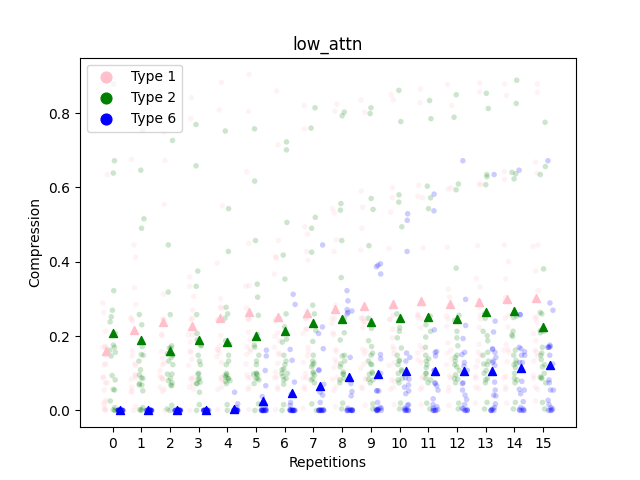
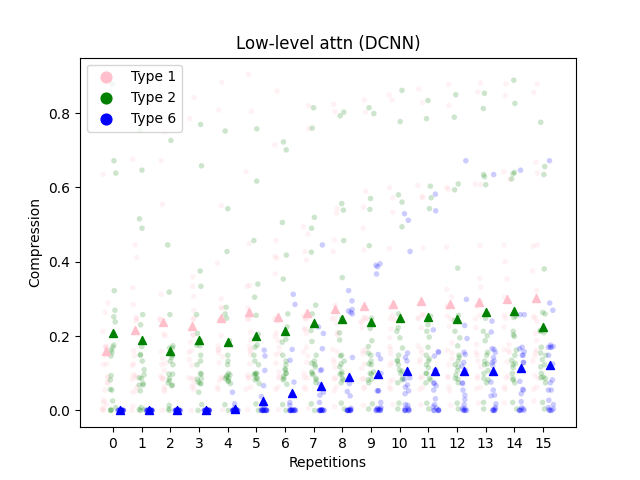
improve plotter and reconfirm results

diff --git a/compression.py b/compression.py
@@ -56,7 +56,7 @@ def per_subj_compression(repr_level, sub, problem_type, run, config_version):
         # convert per run rp to global repetition 
         repetition = (run-1) * num_repetitions_per_run + rp - 1
         
-        if repr_level == 'LOC':
+        if repr_level == 'low_attn':
             config = load_config(component=None, config_version=config_version)
             attn_position = config['attn_positions'].split(',')[0]
             attn_weights = np.load(
@@ -66,7 +66,7 @@ def per_subj_compression(repr_level, sub, problem_type, run, config_version):
             # score = attn_compression(attn_weights)
             score = attn_sparsity(attn_weights)
         
-        elif repr_level == 'cluster':
+        elif repr_level == 'high_attn':
             attn_weights = np.load(
                 f'{results_path}/' \
                 f'all_alphas_type{problem_type}_sub{sub}_cluster_rp{repetition}.npy')[-3:]
@@ -217,7 +217,11 @@ def compression_execute(config_version, repr_level, subs, runs, tasks, num_proce
     plt.legend()
     ax.set_xlabel('Learning Blocks')
     ax.set_ylabel(f'Compression')
-    plt.title(f'{repr_level}')
+    if repr_level == 'low_attn':
+        title = 'Low-level attn (DCNN)'
+    elif repr_level == 'high_attn':
+        title = 'High-level attn (Clustering)'
+    plt.title(f'{title}')
     plt.savefig(f'compression_results/{repr_level}.png')
 
 
@@ -232,7 +236,7 @@ def per_subj_compression_repetition_level(
     """
     config_version = f'{config_version}_sub{sub}_fit-human'
     results_path = f'results/{config_version}'
-    if repr_level == 'LOC':
+    if repr_level == 'low_attn':
         config = load_config(component=None, config_version=config_version)
         attn_position = config['attn_positions'].split(',')[0]
         attn_weights = np.load(
@@ -242,7 +246,7 @@ def per_subj_compression_repetition_level(
         # score = attn_compression(attn_weights)
         score = attn_sparsity(attn_weights)
     
-    elif repr_level == 'cluster':
+    elif repr_level == 'high_attn':
         attn_weights = np.load(
             f'{results_path}/' \
             f'all_alphas_type{problem_type}_sub{sub}_cluster_rp{repetition}.npy')[-3:]
@@ -397,14 +401,18 @@ def compression_execute_repetition_level(
     plt.legend()
     ax.set_xlabel('Repetitions')
     ax.set_ylabel(f'Compression')
-    plt.title(f'{repr_level}')
+    if repr_level == 'low_attn':
+        title = 'Low-level attn (DCNN)'
+    elif repr_level == 'high_attn':
+        title = 'High-level attn (Clustering)'
+    plt.title(f'{title}')
     plt.savefig(f'compression_results_repetition_level/{repr_level}.png')
 
 
 if __name__ == '__main__':
     os.environ["CUDA_VISIBLE_DEVICES"] = '-1'
     config_version = 'best_config'
-    repr_level = 'LOC'
+    repr_level = 'low_attn'
     num_subs = 23
     subs = [f'{i:02d}' for i in range(2, num_subs+2) if i!=9]
     num_subs = len(subs)
@@ -414,14 +422,14 @@ if __name__ == '__main__':
     num_repetitions_per_run = 4
     num_repetitions = 16
     
-    # compression_execute(
-    #     config_version=config_version, 
-    #     repr_level=repr_level, 
-    #     subs=subs, 
-    #     runs=runs, 
-    #     tasks=tasks, 
-    #     num_processes=num_processes
-    # )
+    compression_execute(
+        config_version=config_version, 
+        repr_level=repr_level, 
+        subs=subs, 
+        runs=runs, 
+        tasks=tasks, 
+        num_processes=num_processes
+    )
     
     compression_execute_repetition_level(
         config_version=config_version, 
